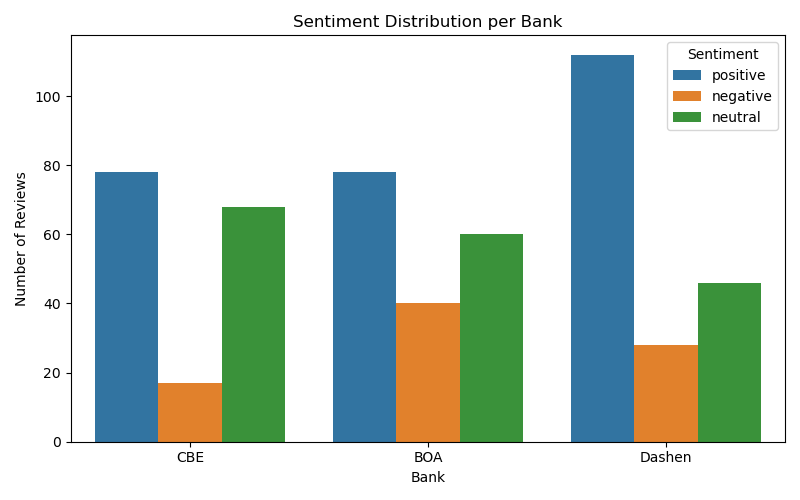
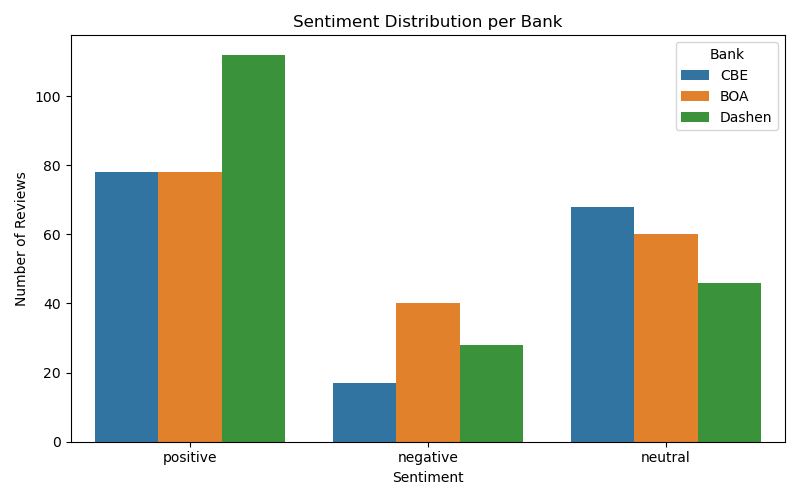
Enhance Task 4: bank-specific recommendations and error handling

diff --git a/scripts/task4-analysis.py b/scripts/task4-analysis.py
@@ -1,51 +1,66 @@
-# task4-analysis.py
+# task4_analysis.py
 
-import os
 import pandas as pd
 import seaborn as sns
 import matplotlib.pyplot as plt
 from wordcloud import WordCloud
+import os
 
 # -------------------------------
-# Step 0: Ensure outputs folder exists
+# Step 1: Load the cleaned data with error handling
 # -------------------------------
-output_dir = "../outputs"
-os.makedirs(output_dir, exist_ok=True)
+try:
+    df = pd.read_csv("../data/reviews_sentiment_themes.csv")
+except FileNotFoundError:
+    raise SystemExit("Error: CSV file not found at ../data/reviews_sentiment_themes.csv")
+except Exception as e:
+    raise SystemExit(f"Error reading CSV: {e}")
 
-# -------------------------------
-# Step 1: Load the cleaned data
-# -------------------------------
-df = pd.read_csv("../data/reviews_sentiment_themes.csv")
-
-# Optional: check columns and first rows
 print(df.head())
 print(df.columns)
 
 # -------------------------------
-# Step 2: Define helper functions
+# Step 2: Helper function to get bank-specific drivers, pain points, and recommendations
 # -------------------------------
 def get_drivers_painpoints(df):
-    """
-    Identify top drivers (positive themes) and pain points (negative themes) per bank
-    Returns a summary dataframe
-    """
     summary = []
-
     for bank in df['bank'].unique():
         bank_df = df[df['bank'] == bank]
-        
-        # Drivers: most frequent positive sentiment themes
+
         drivers = bank_df[bank_df['sentiment_label'] == 'positive']['themes']\
                     .value_counts().head(2).index.tolist()
-        # Pain points: most frequent negative sentiment themes
         painpoints = bank_df[bank_df['sentiment_label'] == 'negative']['themes']\
                         .value_counts().head(2).index.tolist()
+
+        # Bank-specific recommendations
+        recommendations = []
+        if bank == "CBE":
+            if "Customer Support" in painpoints:
+                recommendations.append("Improve customer support response times")
+            if "Account Access Issues" in painpoints:
+                recommendations.append("Simplify account login and verification process")
+            if "Other" in drivers:
+                recommendations.append("Highlight popular app features in tutorials")
+        elif bank == "BOA":
+            if "Transaction Performance" in painpoints:
+                recommendations.append("Optimize transaction speed and reliability")
+            if "Customer Support" in painpoints:
+                recommendations.append("Provide clear guidance for common issues")
+            if "Other" in drivers:
+                recommendations.append("Promote fast navigation and app stability")
+        elif bank == "Dashen":
+            if "Feature Requests" in painpoints:
+                recommendations.append("Add requested features based on feedback")
+            if "User Interface & Experience" in drivers:
+                recommendations.append("Keep UI intuitive and user-friendly")
+        else:
+            recommendations.append("Consider addressing pain points and enhancing drivers")
 
         summary.append({
             'Bank': bank,
             'Driver(s)': ', '.join(drivers) if drivers else 'N/A',
             'Pain Point(s)': ', '.join(painpoints) if painpoints else 'N/A',
-            'Suggested Improvements': 'Consider addressing pain points and enhancing drivers'
+            'Suggested Improvements': '; '.join(recommendations) if recommendations else 'N/A'
         })
 
     return pd.DataFrame(summary)
@@ -57,54 +72,47 @@ summary_df = get_drivers_painpoints(df)
 print("\nSummary of Drivers and Pain Points per Bank:\n")
 print(summary_df)
 
-# Save summary table as CSV
-summary_csv_path = os.path.join(output_dir, "task4_summary.csv")
-summary_df.to_csv(summary_csv_path, index=False)
+# Ensure outputs folder exists
+os.makedirs("../outputs", exist_ok=True)
+summary_df.to_csv("../outputs/task4_summary.csv", index=False)
 
 # -------------------------------
-# Step 4: Visualizations
+# Step 4: Visualizations with error handling
 # -------------------------------
-
-# 1. Sentiment distribution per bank
-plt.figure(figsize=(8,5))
-sns.countplot(data=df, x='bank', hue='sentiment_label')
-plt.title("Sentiment Distribution per Bank")
-plt.xlabel("Bank")
-plt.ylabel("Number of Reviews")
-plt.legend(title='Sentiment')
-plt.tight_layout()
-plt.savefig(os.path.join(output_dir, "sentiment_distribution.png"))
-plt.show()
-
-# 2. Rating distribution per bank
-plt.figure(figsize=(8,5))
-sns.boxplot(data=df, x='bank', y='rating')
-plt.title("Rating Distribution per Bank")
-plt.xlabel("Bank")
-plt.ylabel("Rating")
-plt.tight_layout()
-plt.savefig(os.path.join(output_dir, "rating_distribution.png"))
-plt.show()
-
-# 3. Overall Themes Word Cloud
-all_themes = " ".join(df['themes'].astype(str))
-wordcloud = WordCloud(width=800, height=400, background_color='white').generate(all_themes)
-plt.figure(figsize=(15,7))
-plt.imshow(wordcloud, interpolation='bilinear')
-plt.axis('off')
-plt.title("Themes Word Cloud")
-plt.tight_layout()
-plt.savefig(os.path.join(output_dir, "themes_wordcloud.png"))
-plt.show()
-
-# 4. Optional: Per-bank Word Clouds
-for bank in df['bank'].unique():
-    text = ' '.join(df[df['bank'] == bank]['review'].astype(str))
-    wordcloud = WordCloud(width=800, height=400, background_color='white').generate(text)
-    plt.figure(figsize=(10,5))
-    plt.imshow(wordcloud, interpolation='bilinear')
-    plt.axis('off')
-    plt.title(f"Word Cloud for {bank}")
+try:
+    # 1. Sentiment distribution per bank
+    plt.figure(figsize=(8,5))
+    sns.countplot(data=df, x='sentiment_label', hue='bank')
+    plt.title("Sentiment Distribution per Bank")
+    plt.xlabel("Sentiment")
+    plt.ylabel("Number of Reviews")
+    plt.legend(title='Bank')
     plt.tight_layout()
-    plt.savefig(os.path.join(output_dir, f"wordcloud_{bank.replace(' ', '_')}.png"))
+    plt.savefig("../outputs/sentiment_distribution.png")
     plt.show()
+
+    # 2. Rating distribution per bank
+    plt.figure(figsize=(8,5))
+    sns.boxplot(data=df, x='bank', y='rating')
+    plt.title("Rating Distribution per Bank")
+    plt.xlabel("Bank")
+    plt.ylabel("Rating")
+    plt.tight_layout()
+    plt.savefig("../outputs/rating_distribution.png")
+    plt.show()
+
+    # 3. Word Clouds per bank
+    for bank in df['bank'].unique():
+        text = ' '.join(df[df['bank']==bank]['review'].astype(str))
+        wordcloud = WordCloud(width=800, height=400, background_color='white').generate(text)
+        plt.figure(figsize=(10,5))
+        plt.imshow(wordcloud, interpolation='bilinear')
+        plt.axis('off')
+        plt.title(f"Word Cloud for {bank}")
+        plt.tight_layout()
+        plt.savefig(f"../outputs/wordcloud_{bank.replace(' ', '_')}.png")
+        plt.show()
+except Exception as e:
+    print(f"Error generating visualizations: {e}")
+
+# Optional: add additional plots (e.g., average sentiment score per bank over time)
